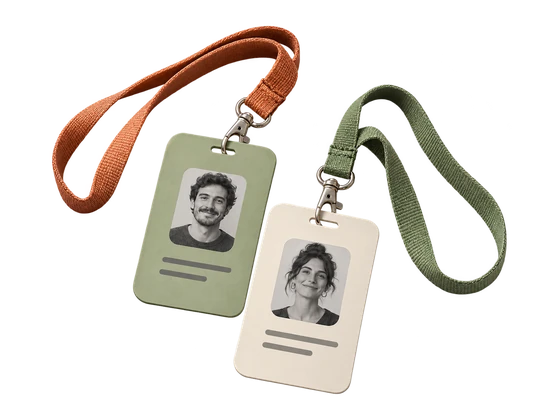
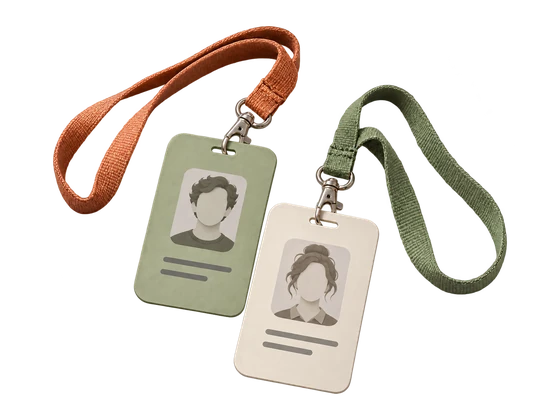
Polish FixList staff, notifications, and archive screens

diff --git a/app.py b/app.py
@@ -201,10 +201,10 @@ def account_dialog():
         service.use_company(USER["company_id"])
         mail = service.notification_settings(USER["id"])
         st.subheader("Уведомления о поломках")
-        st.caption("На этот адрес будут приходить новые заявки и замечания с обходов вашей компании.")
+        st.caption("Укажите, куда отправлять новые заявки и замечания с обходов.")
         with st.form("email-notifications"):
             recipient = st.text_input("Почта для уведомлений", value=mail["recipient"], placeholder="name@example.com")
-            save_mail = st.form_submit_button("Подключить почту", use_container_width=True)
+            save_mail = st.form_submit_button("Сохранить адрес", use_container_width=True)
         if save_mail:
             try:
                 service.save_notification_settings(USER["id"], recipient, True)
@@ -212,19 +212,13 @@ def account_dialog():
                 st.error(str(exc))
             else:
                 mail = service.notification_settings(USER["id"])
-                if mail["configured"]:
-                    st.success("Почта для уведомлений подключена.")
+                st.success("Адрес для уведомлений сохранён.")
         if mail["enabled"] and st.button("Отключить уведомления", key="disable-notifications", use_container_width=True):
             service.save_notification_settings(USER["id"], mail["recipient"], False)
             mail = service.notification_settings(USER["id"])
             st.success("Уведомления отключены.")
-        if not mail["configured"]:
-            if mail["enabled"]:
-                st.info(f"Адрес сохранён. Отправка писем ещё не подключена в FixList. В очереди: {mail['pending']}.")
-            else:
-                st.info("Адрес можно сохранить сейчас. Письма будут ждать подключения отправки в FixList.")
-        elif mail["enabled"]:
-            st.caption(f"Почта подключена · в очереди: {mail['pending']} · принято почтовым сервисом: {mail['sent']} · ошибок: {mail['failed']}")
+        if mail["configured"] and mail["enabled"]:
+            st.caption(f"Уведомления включены · в очереди: {mail['pending']} · принято почтовым сервисом: {mail['sent']} · ошибок: {mail['failed']}")
             if st.button("Отправить тестовое письмо", key="test-notification", use_container_width=True):
                 try:
                     service.test_notification(USER["id"])

diff --git a/tests/test_notifications.py b/tests/test_notifications.py
@@ -59,22 +59,26 @@ class NotificationTests(unittest.TestCase):
         with self.assertRaises(ValueError):
             service.notification_settings(self.worker["id"])
 
-    def test_account_connects_email_without_a_separate_enable_step(self):
+    def test_account_saves_email_even_when_the_sender_is_missing(self):
         from streamlit.testing.v1 import AppTest
 
         app = AppTest.from_file(str(Path(__file__).resolve().parents[1] / "app.py"), default_timeout=25)
         app.session_state["user"] = self.admin
         app.session_state["session-expires-at"] = time() + 3600
-        with patch.object(service, "bootstrap"), patch.object(service, "start_notifications"):
+        with patch.object(config, "SMTP_PASSWORD", ""), patch.object(service, "bootstrap"), patch.object(service, "start_notifications"):
             app.run()
             app.button(key="open-account").click().run()
             next(field for field in app.text_input if field.label == "Почта для уведомлений").set_value("owner@example.com")
-            next(button for button in app.button if button.label == "Подключить почту").click()
+            next(button for button in app.button if button.label == "Сохранить адрес").click()
             app.button(key="open-account").click().run()
             self.assertFalse(app.exception)
             settings = service.notification_settings(self.admin["id"])
             self.assertEqual(settings["recipient"], "owner@example.com")
             self.assertTrue(settings["enabled"])
+            self.assertTrue(any("Адрес для уведомлений сохранён" in message.value for message in app.success))
+            self.assertFalse(any("Отправка писем приостановлена" in message.value for message in app.warning))
+            self.assertFalse(any("Уведомления включены · в очереди" in message.value for message in app.caption))
+            self.assertFalse(any(button.label == "Отправить тестовое письмо" for button in app.button))
             app.button(key="disable-notifications").click()
             app.button(key="open-account").click().run()
             self.assertFalse(app.exception)

diff --git a/ui/archive_workspace.py b/ui/archive_workspace.py
@@ -298,13 +298,7 @@ def signals():
 
 def finance():
     heading("06 / Деньги и экономия", "Сколько стоит простой", "Оцените стоимость остановок Kelmarsh и возможную экономию при сокращении простоя.")
-    view = service.archive_report()
-    money_scenario.show(view)
-    if view["signals"]:
-        repeated = view["signals"][0]
-        equipment = repeated["events"][0]["equipment_name"]
-        st.info(f"Пример из архива: на {equipment} по коду {repeated['code']} («{repeated['label']}») зафиксировано событий: "
-                f"{repeated['count']}. Сверьте журнал по этому коду и выясните, какие остановки можно предотвратить.")
+    money_scenario.show(service.archive_report())
 
 
 def history():
@@ -323,8 +317,6 @@ def ask(*, can_open_finance):
             picked = question
     chat = st.session_state.setdefault("archive-chat", [])
     assistant_chat.render(chat, can_open_finance=can_open_finance)
-    with st.expander("Проверить разбор технической записи · MaintIE"):
-        _maintie()
     question = st.chat_input("Например: сколько часов простоя у Kelmarsh 1 в январе?", max_chars=2000) or picked
     if question:
         assistant_chat.reply(question, chat)

diff --git a/docs/email-notifications.md b/docs/email-notifications.md
@@ -1,7 +1,7 @@
 # Уведомления о новых поломках на почту
 
 Администратор открывает **Аккаунт → Уведомления о поломках**, указывает email
-и нажимает **Подключить почту**. В этом же окне можно сменить адрес, отправить
+и нажимает **Сохранить адрес**. В этом же окне можно сменить адрес, отправить
 тестовое письмо или выключить уведомления. У каждой компании свой получатель.
 Настройки доступны администратору компании.
 
